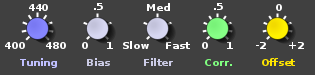
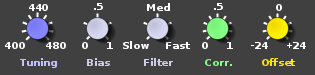
increase correction ambitus to -24:+24

Changed region(s): [[0.9143, 0.56, 0.9714, 0.6667], [0.8, 0.56, 0.8571, 0.6667]]

diff --git a/source/mainwin.cc b/source/mainwin.cc
@@ -1,7 +1,7 @@
 // ----------------------------------------------------------------------
 //
 //  Copyright (C) 2010-2014 Fons Adriaensen <fons@linuxaudio.org>
-//    
+//
 //  This program is free software; you can redistribute it and/or modify
 //  it under the terms of the GNU General Public License as published by
 //  the Free Software Foundation; either version 2 of the License, or
@@ -50,7 +50,7 @@ Mainwin::Mainwin (X_rootwin *parent, X_resman *xres, int xp, int yp, Jclient *jc
     H.maxsize (XSIZE, YSIZE);
     H.rname (xres->rname ());
     H.rclas (xres->rclas ());
-    x_apply (&H); 
+    x_apply (&H);
 
     x = 20;
     _bmidi = new Pbutt0 (this, this, &b_midi_img, x, 12, B_MIDI);
@@ -72,7 +72,7 @@ Mainwin::Mainwin (X_rootwin *parent, X_resman *xres, int xp, int yp, Jclient *jc
         _bnote [i] = new Pbutt1 (this, this, &b_note_img, x, y, i);
         _bnote [i]->set_state (1);
         _bnote [i]->x_map ();
-	if (j == 4) 
+	if (j == 4)
 	{
 	    x += 20;
 	    j++;
@@ -99,7 +99,7 @@ Mainwin::Mainwin (X_rootwin *parent, X_resman *xres, int xp, int yp, Jclient *jc
     _rotary [R_BIAS] = new Rlinctl (this, this, R_BIAS, &r_bias_geom, x, 0, 270,  5,   0.0,   1.0,  b);
     _rotary [R_FILT] = new Rlogctl (this, this, R_FILT, &r_filt_geom, x, 0, 200,  5,   0.50,  0.02,  f);
     _rotary [R_CORR] = new Rlinctl (this, this, R_CORR, &r_corr_geom, x, 0, 270,  5,   0.0,   1.0,   c);
-    _rotary [R_OFFS] = new Rlinctl (this, this, R_OFFS, &r_offs_geom, x, 0, 400, 10,  -2.0,   2.0,   o);
+    _rotary [R_OFFS] = new Rlinctl (this, this, R_OFFS, &r_offs_geom, x, 0, 400, 10,  -24.0,   24.0,   o);
     for (i = 0; i < NROTARY; i++) _rotary [i]->x_map ();
 
     _textln = new X_textip (this, 0, &tstyle1, 0, 0, 50, 15, 15);
@@ -114,19 +114,19 @@ Mainwin::Mainwin (X_rootwin *parent, X_resman *xres, int xp, int yp, Jclient *jc
     _jclient->retuner ()->set_corrgain (_rotary [R_CORR]->value ());
     _jclient->retuner ()->set_corroffs (_rotary [R_OFFS]->value ());
 
-    x_add_events (ExposureMask); 
-    x_map (); 
+    x_add_events (ExposureMask);
+    x_map ();
     set_time (0);
     inc_time (500000);
 }
 
- 
+
 Mainwin::~Mainwin (void)
 {
     RotaryCtl::fini ();
 }
 
- 
+
 int Mainwin::process (void)
 {
     int e;
@@ -150,8 +150,8 @@ void Mainwin::handle_event (XEvent *E)
     {
     case Expose:
 	expose ((XExposeEvent *) E);
-	break;  
- 
+	break;
+
     case ClientMessage:
         clmesg ((XClientMessageEvent *) E);
         break;
@@ -275,16 +275,16 @@ void Mainwin::handle_callb (int type, X_window *W, XEvent *E)
             _jclient->retuner ()->set_refpitch (v);
 	    showval (k);
 	    break;
-	case R_BIAS:   
+	case R_BIAS:
             _jclient->retuner ()->set_notebias (_rotary [R_BIAS]->value ());
 	    break;
-	case R_FILT:   
+	case R_FILT:
             _jclient->retuner ()->set_corrfilt (_rotary [R_FILT]->value ());
 	    break;
-	case R_CORR:   
+	case R_CORR:
             _jclient->retuner ()->set_corrgain (_rotary [R_CORR]->value ());
 	    break;
-	case R_OFFS:   
+	case R_OFFS:
             _jclient->retuner ()->set_corroffs (_rotary [R_OFFS]->value ());
 	    showval (k);
 	    break;
@@ -308,7 +308,7 @@ void Mainwin::setchan (int d)
     }
     else _bchan->set_text ("Omni", 0);
     _jclient->set_midichan (_midich - 1);
-}   
+}
 
 
 void Mainwin::showval (int k)
@@ -343,5 +343,3 @@ void Mainwin::redraw (void)
     x = XSIZE - 35;
     XPutImage (dpy (), win (), dgc (), redzita_img, 0, 0, x, 0, 35, 75);
 }
-
-

diff --git a/source/zita-at1.cc b/source/zita-at1.cc
@@ -1,7 +1,7 @@
 // ----------------------------------------------------------------------
 //
 //  Copyright (C) 2010-2011 Fons Adriaensen <fons@linuxaudio.org>
-//    
+//
 //  This program is free software; you can redistribute it and/or modify
 //  it under the terms of the GNU General Public License as published by
 //  the Free Software Foundation; either version 2 of the License, or
@@ -65,7 +65,7 @@ static void help (void)
     fprintf (stderr, "  -b bias         Bias knob value [0 : 1]\n");
     fprintf (stderr, "  -f filter       Filter knob value [0.5 : 0.02]\n");
     fprintf (stderr, "  -c correction   Correction knob value [0 : 1]\n");
-    fprintf (stderr, "  -o offset       Offset knob value [-2 : 2]\n");
+    fprintf (stderr, "  -o offset       Offset knob value [-24 : 24]\n");
     exit (1);
 }
 
@@ -87,7 +87,7 @@ int main (int ac, char *av [])
 
     xresman.init (&ac, av, CP PROGNAME, options, NOPTS);
     if (xresman.getb (".help", 0)) help ();
-            
+
     display = new X_display (xresman.get (".display", 0));
     if (display->dpy () == 0)
     {
@@ -112,7 +112,7 @@ int main (int ac, char *av [])
     ITC_ctrl::connect (jclient, EV_EXIT, mainwin, EV_EXIT);
 
     if (mlockall (MCL_CURRENT | MCL_FUTURE)) fprintf (stderr, "Warning: memory lock failed.\n");
-    signal (SIGINT, sigint_handler); 
+    signal (SIGINT, sigint_handler);
 
     do
     {
@@ -127,16 +127,13 @@ int main (int ac, char *av [])
             rootwin->handle_event ();
 	}
     }
-    while (ev != EV_EXIT);	
+    while (ev != EV_EXIT);
 
     styles_fini (display);
     delete jclient;
     delete handler;
     delete rootwin;
     delete display;
-   
+
     return 0;
 }
-
-
-
